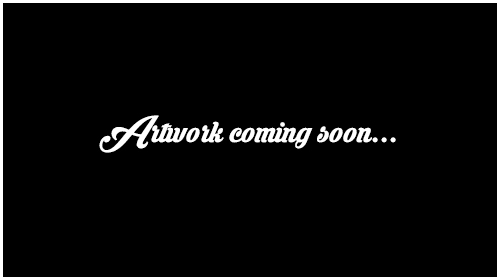
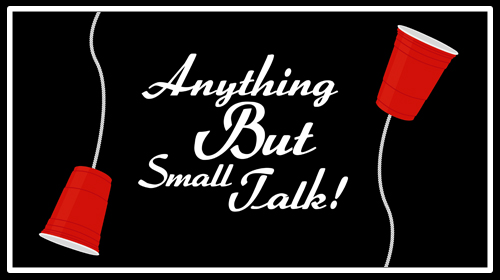
Updated ABST!

Changed region(s): [[0.0, 0.0, 1.0, 1.0]]

diff --git a/public_html/css/gamedesign.css b/public_html/css/gamedesign.css
@@ -173,7 +173,7 @@ section{
     width: 450px;
     height: 255px;
     padding: 25px 0px 0px 50px;
-    background: rgba(0, 0, 0, 0.6);
+    background: rgba(0, 0, 0, 0.85);
     opacity: 0;
     -webkit-transition: all 0.5s ease-in-out;
     -moz-transition: all 0.5s ease-in-out;
